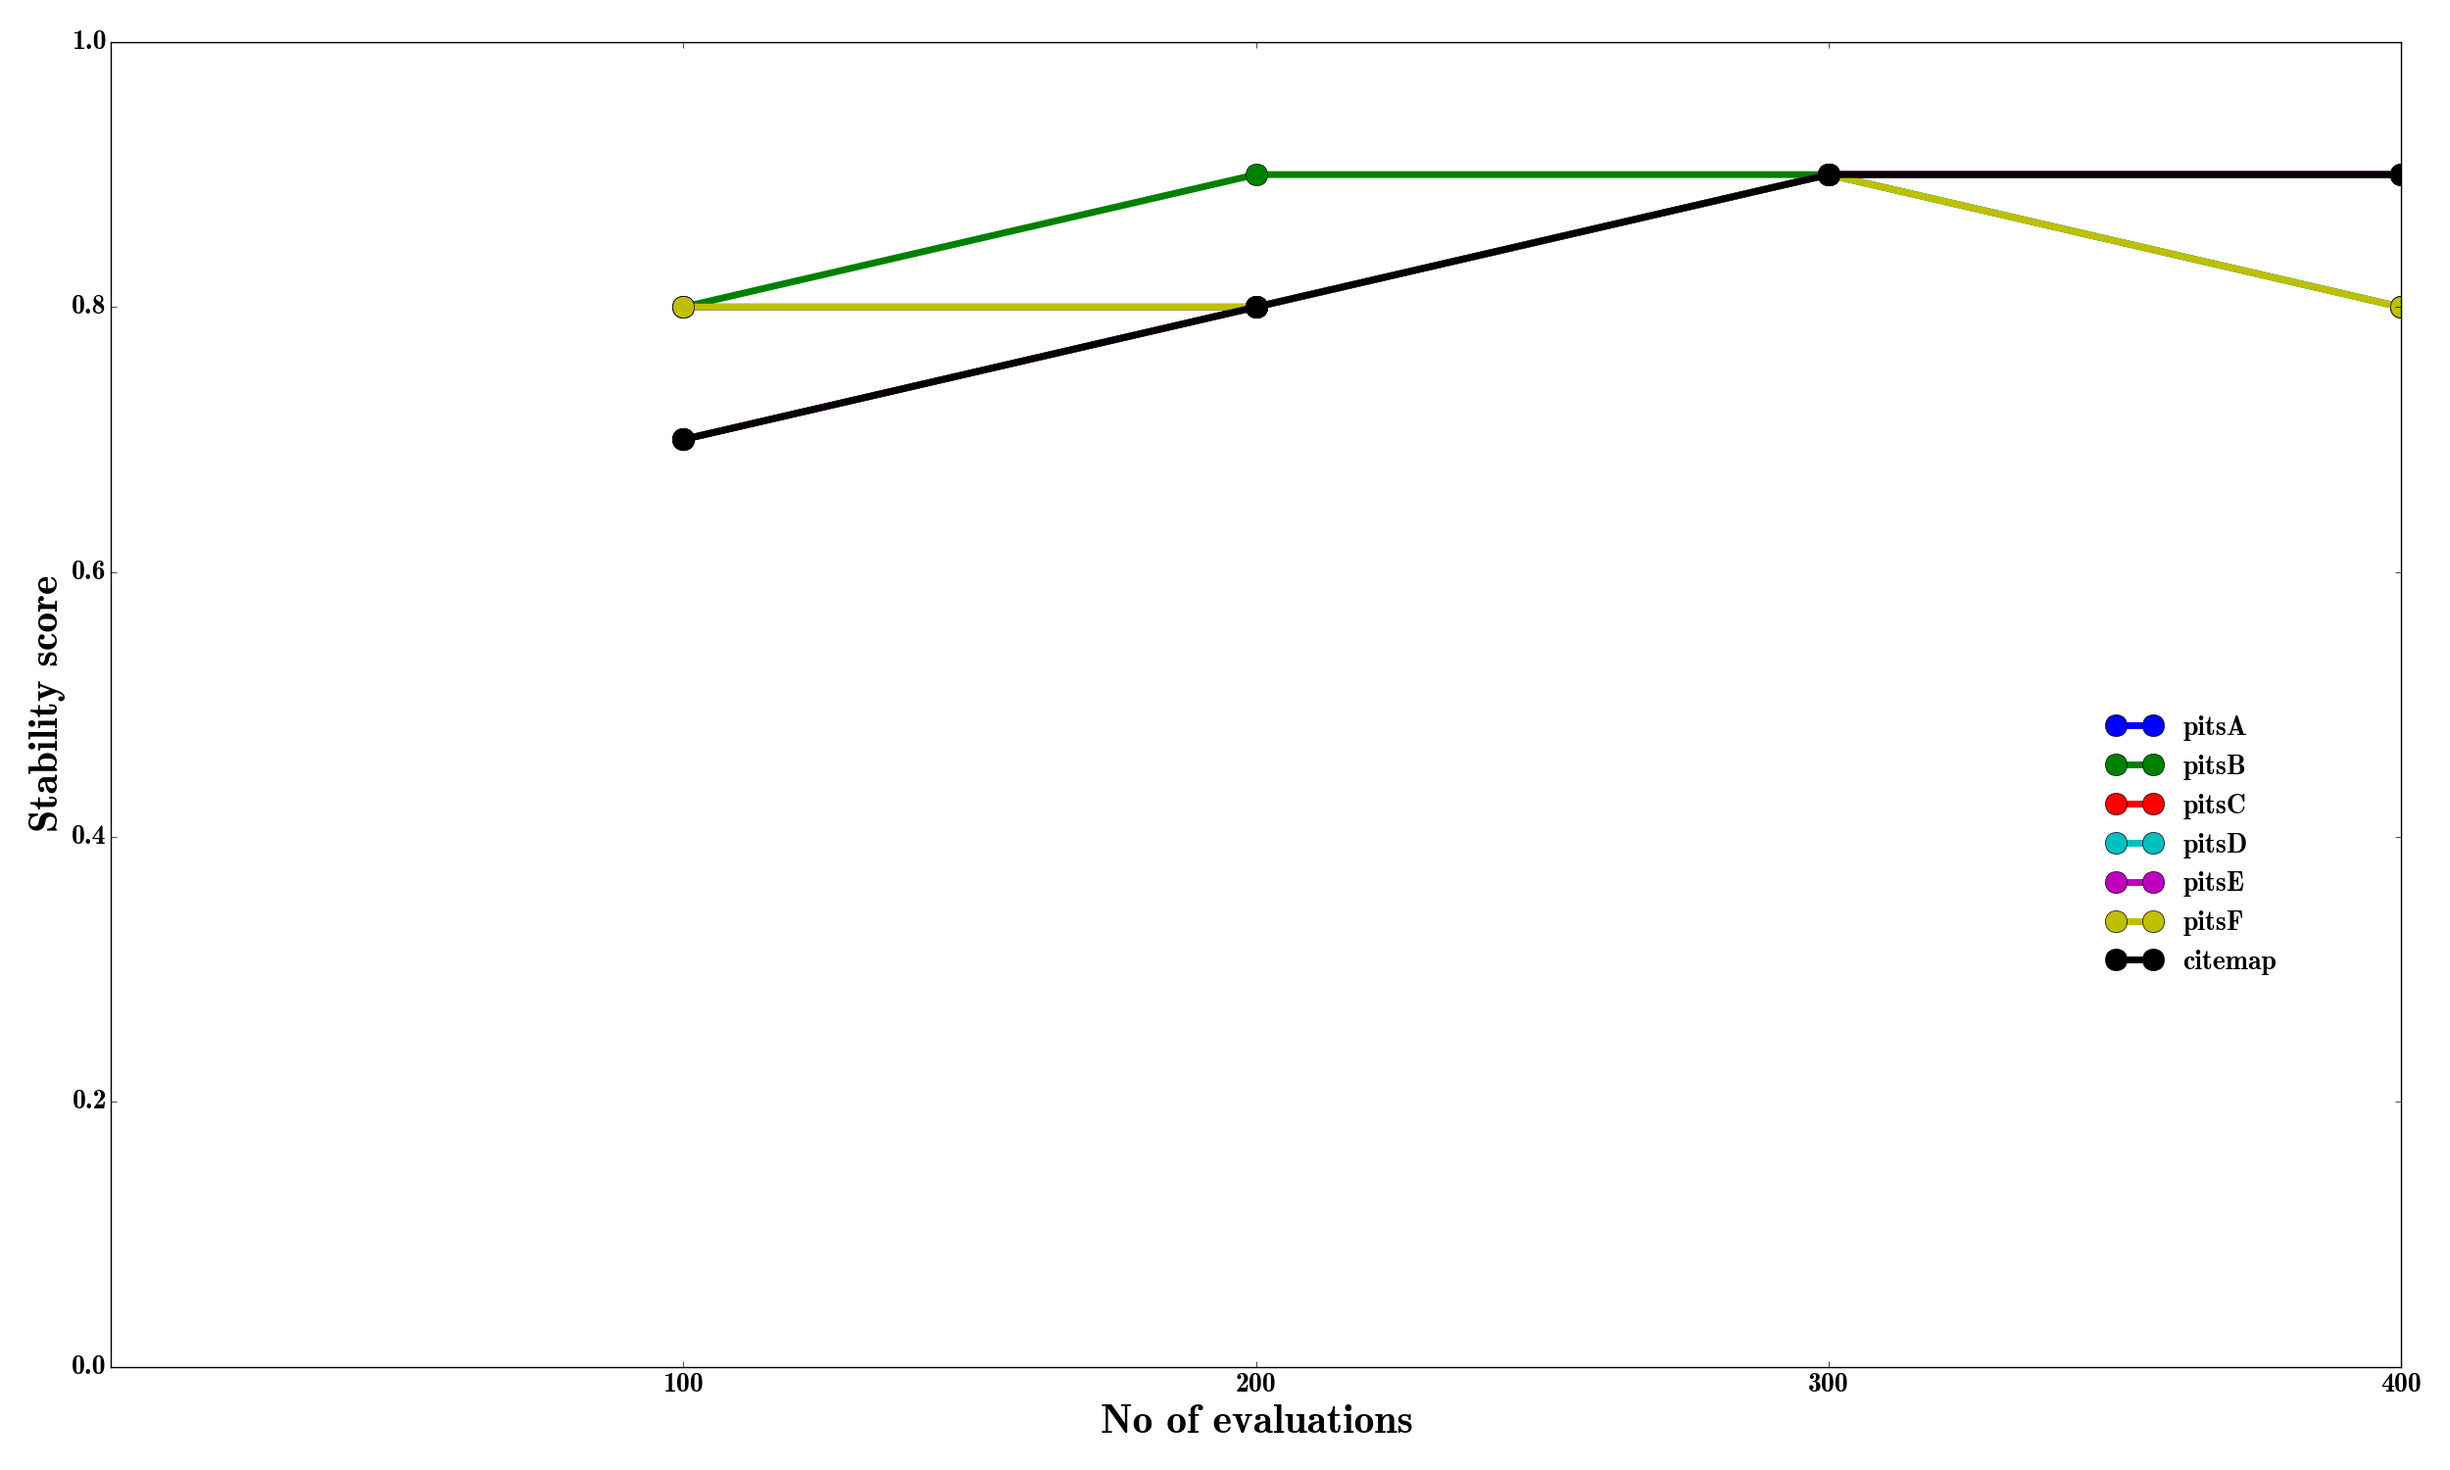
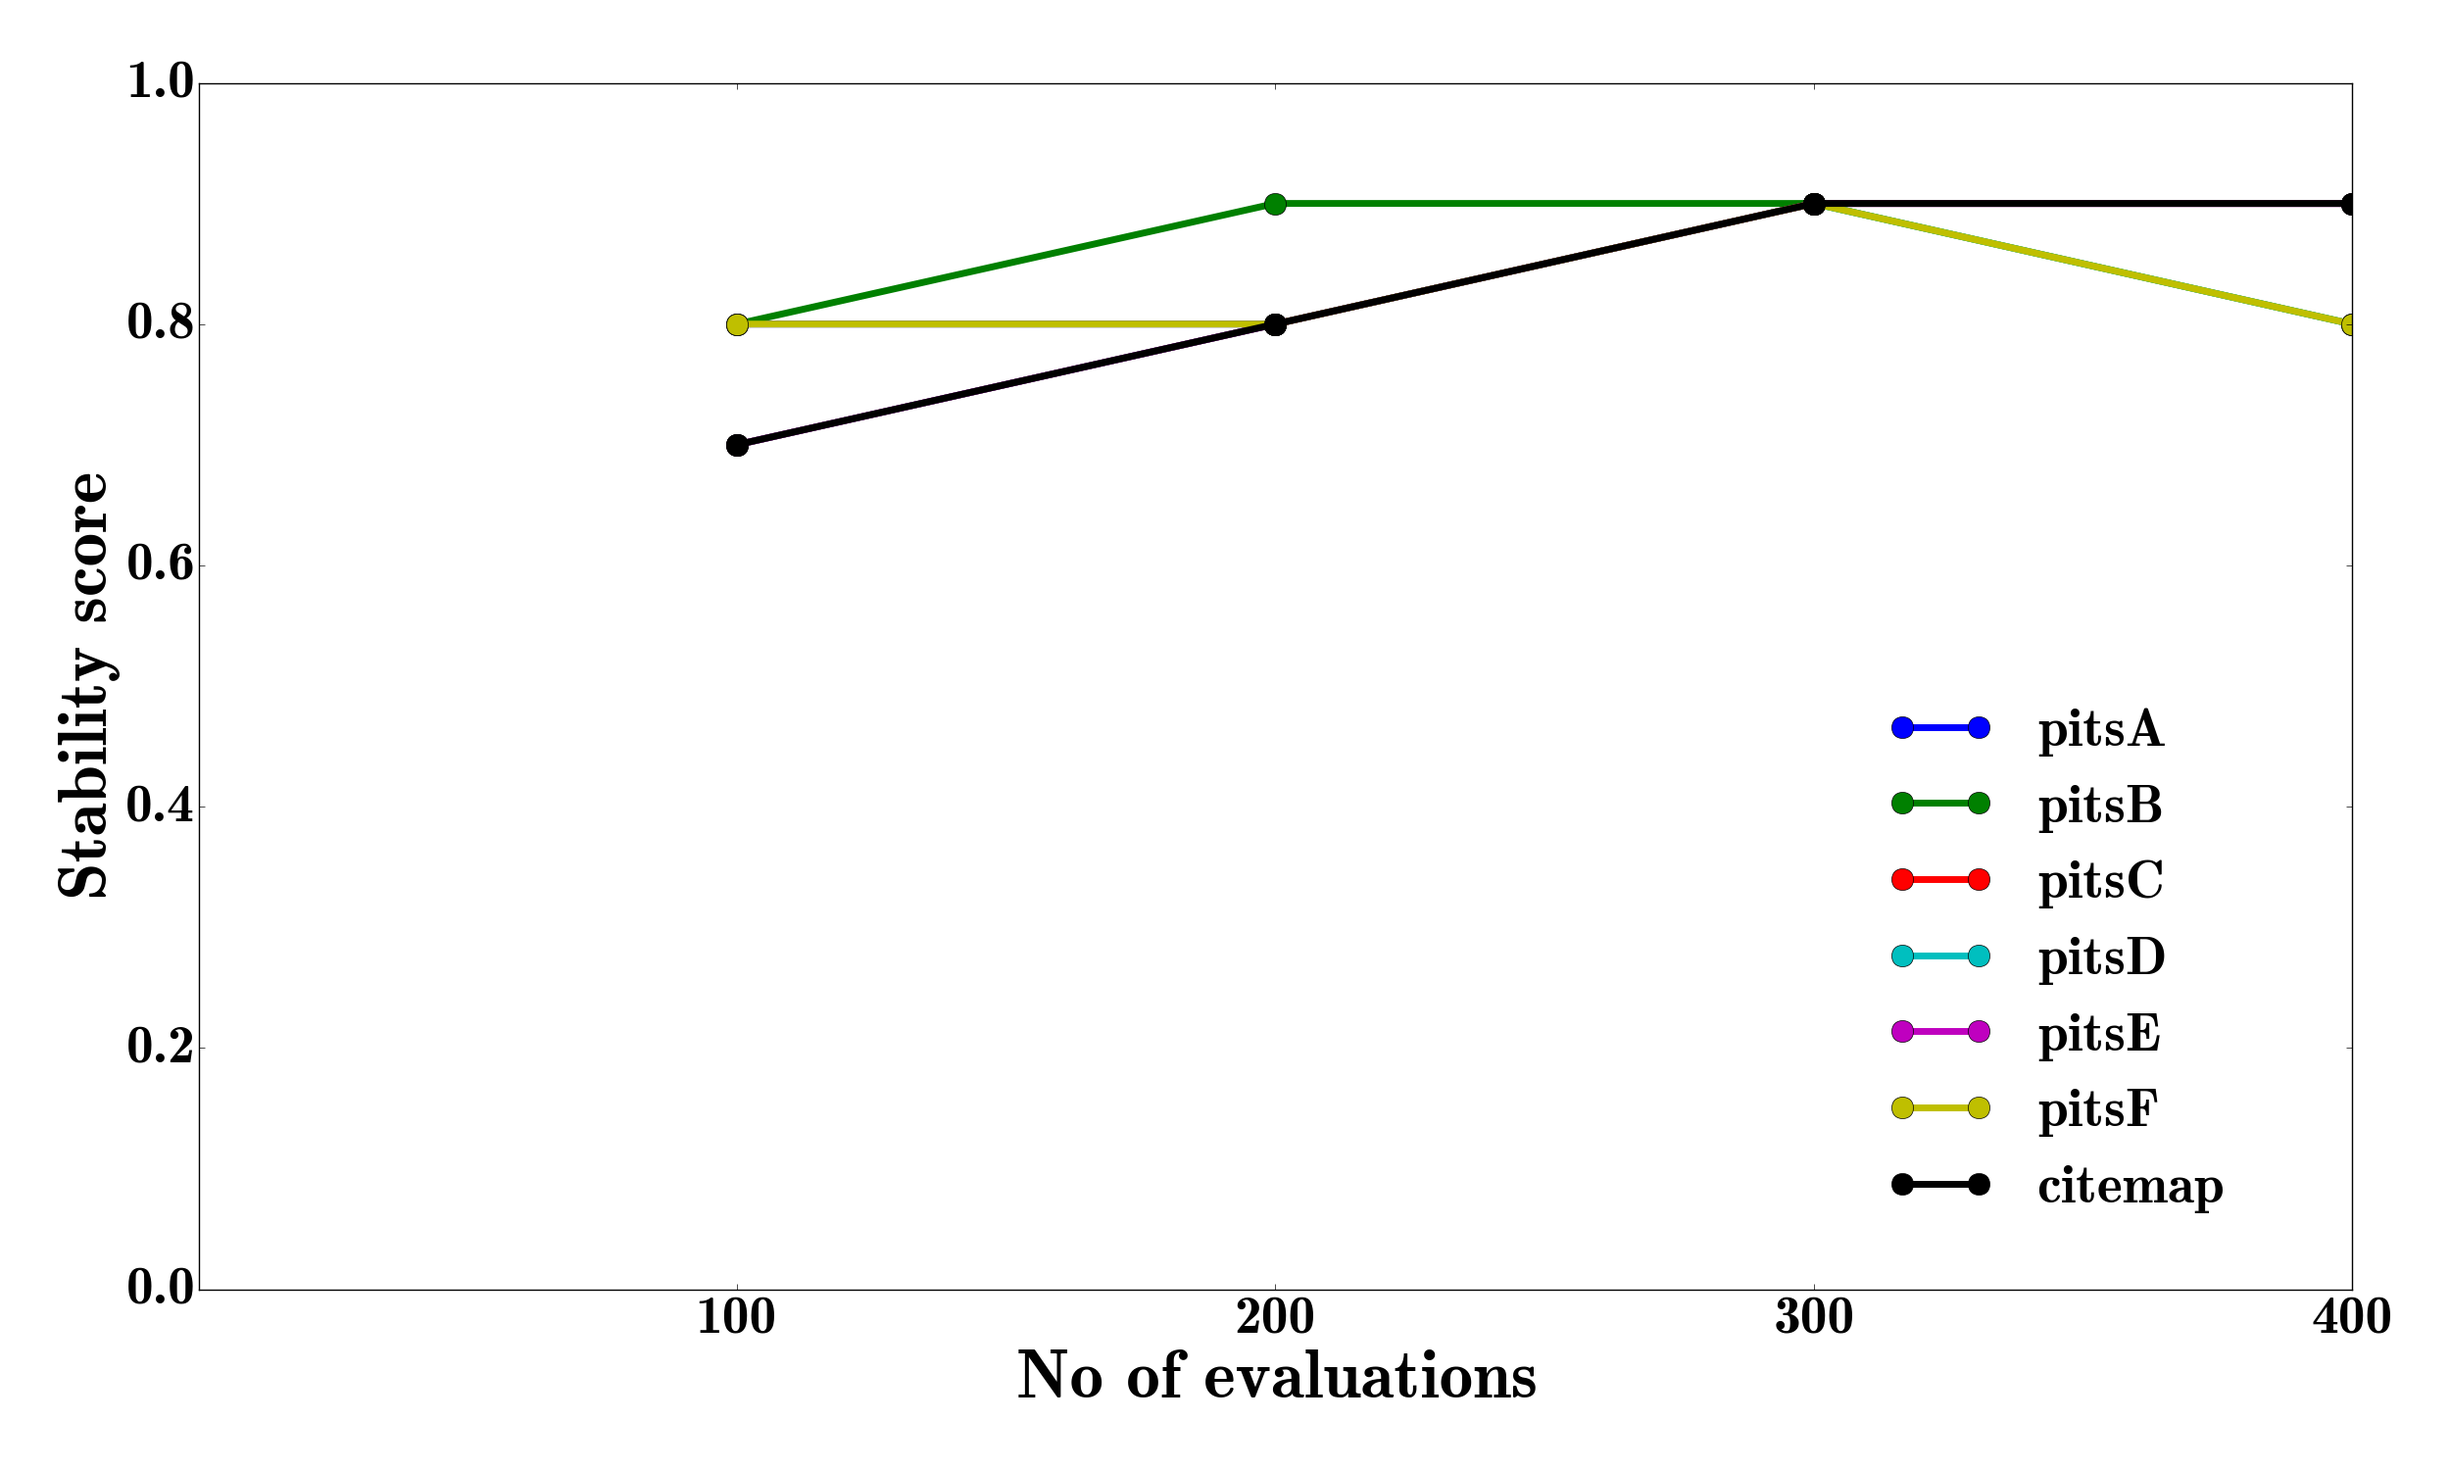
save

diff --git a/src/06-03/DE_pits.py b/src/06-03/DE_pits.py
@@ -224,10 +224,10 @@ def _test(res=''):
     labels=[1,2,3,4]
     font = {'family' : 'normal',
             'weight' : 'bold',
-            'size'   : 20}
+            'size'   : 40}
 
     plt.rc('font', **font)
-    paras={'lines.linewidth': 5,'legend.fontsize': 20, 'axes.labelsize': 30, 'legend.frameon': False,'figure.autolayout': True,'figure.figsize': (16,8)}
+    paras={'lines.linewidth': 5,'legend.fontsize': 40, 'axes.labelsize': 50, 'legend.frameon': False,'figure.autolayout': True,'figure.figsize': (16,8)}
     plt.rcParams.update(paras)
     X = range(1,5,1)
     plt.figure(num=0, figsize=(25, 15))
